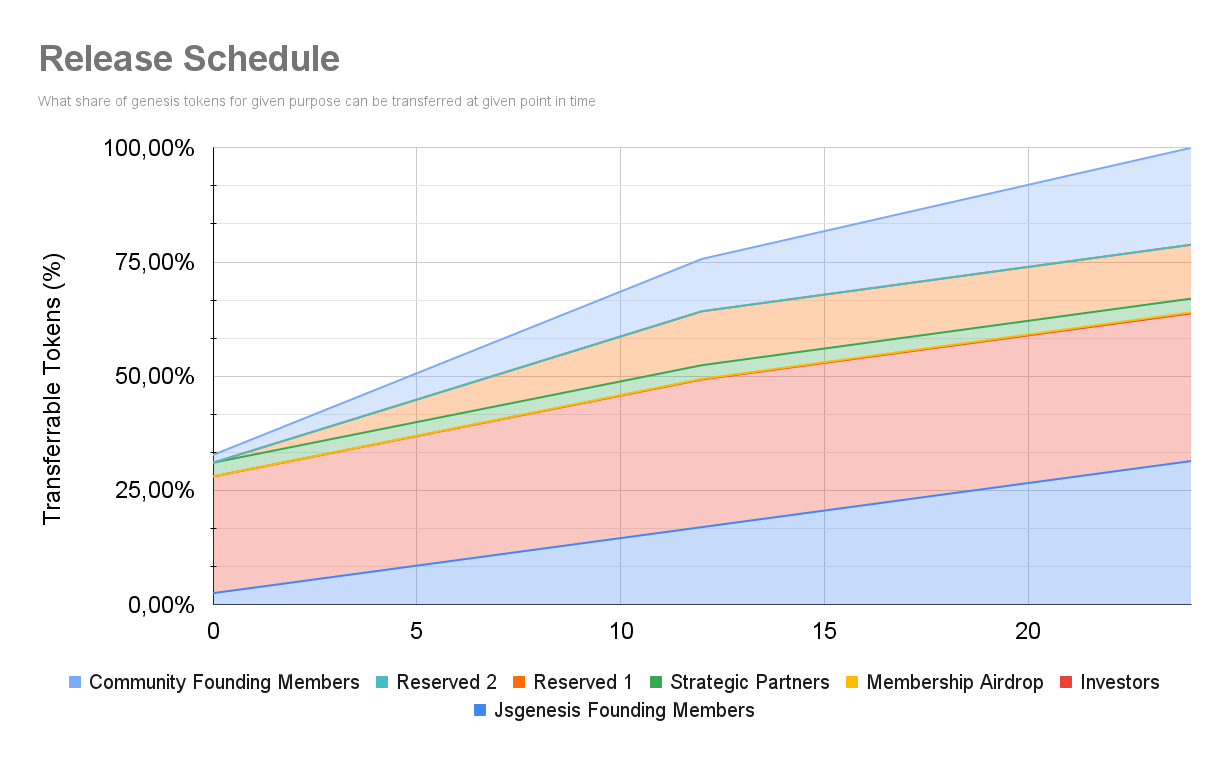
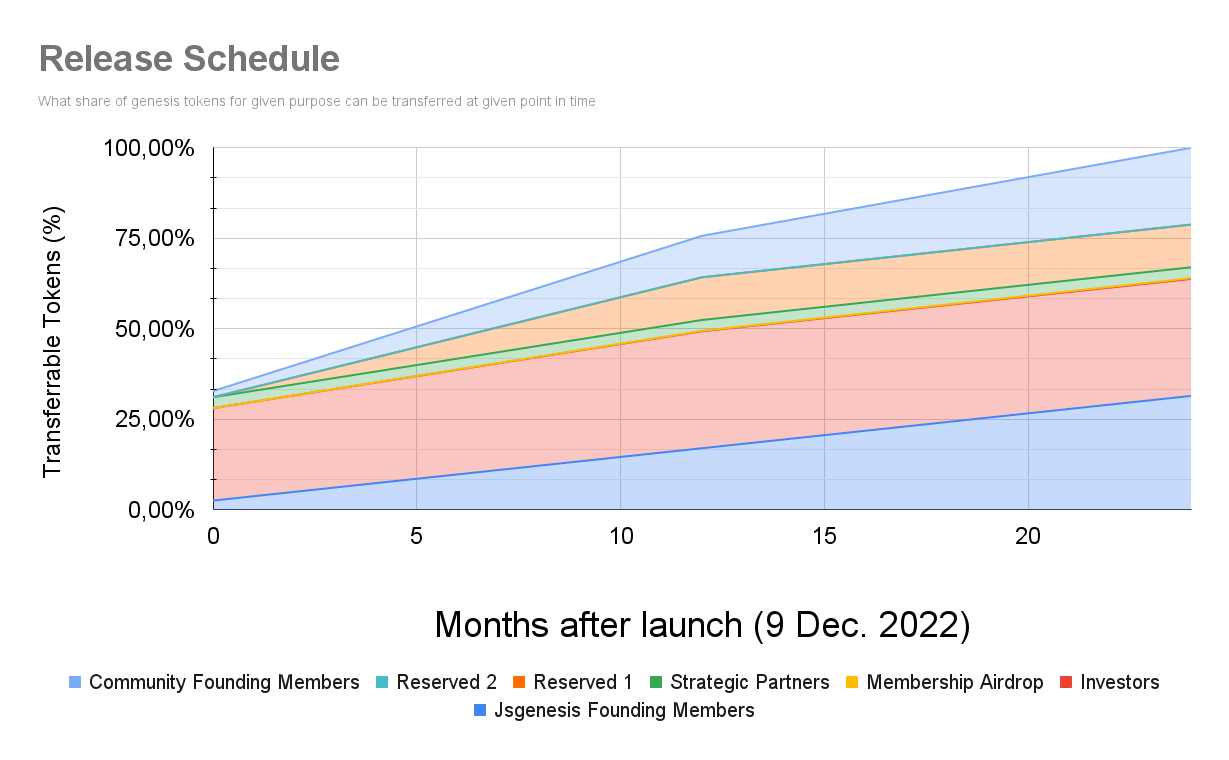
GITBOOK-500: change request with no subject merged in GitBook

diff --git a/usdjoy.md b/usdjoy.md
@@ -37,6 +37,8 @@ There are two sources of inflation, staking rewards for validators and nominator
 
 ## Genesis Block
 
+The Joystream blockchain launched December 9th 2022, so all vesting durations start from this time.
+
 | Purpose                    |  Genesis %  | Genesis Liquidity | Vesting Duration |
 | -------------------------- | :---------: | :---------------: | :--------------: |
 | Community Founding Members | 21.2189609% |         8%        |     24 months    |
@@ -49,10 +51,10 @@ There are two sources of inflation, staking rewards for validators and nominator
 
 ## Release Schedule
 
-Many of the tokens in the genesis block were subject to limits on transferrability, and the schedule below shows how the share of tokens in the genesis block that can be transferred increases over time. This schedule can easily be derived from the prior section on the genesis block, but it is explicitly included here for convenience.
+Many of the tokens in the genesis block were subject to limits on transferability, and the schedule below shows how the share of tokens in the genesis block that can be transferred increases over time. This schedule can easily be derived from the prior section on the genesis block, but it is explicitly included here for convenience.
 
 <figure><img src=".gitbook/assets/Release Schedule.png" alt=""><figcaption></figcaption></figure>
 
 Here is an embed of the source calculation.
 
-{% embed url="https://docs.google.com/spreadsheets/d/1i3ZZydgSuyGVVYmYGWikjzNd5_VtSIhOYgkVQxBhdJ4/edit#gid=1643597195" %}
+{% embed url="https://docs.google.com/spreadsheets/d/1i3ZZydgSuyGVVYmYGWikjzNd5_VtSIhOYgkVQxBhdJ4/edit#gid=1643597195" fullWidth="false" %}
